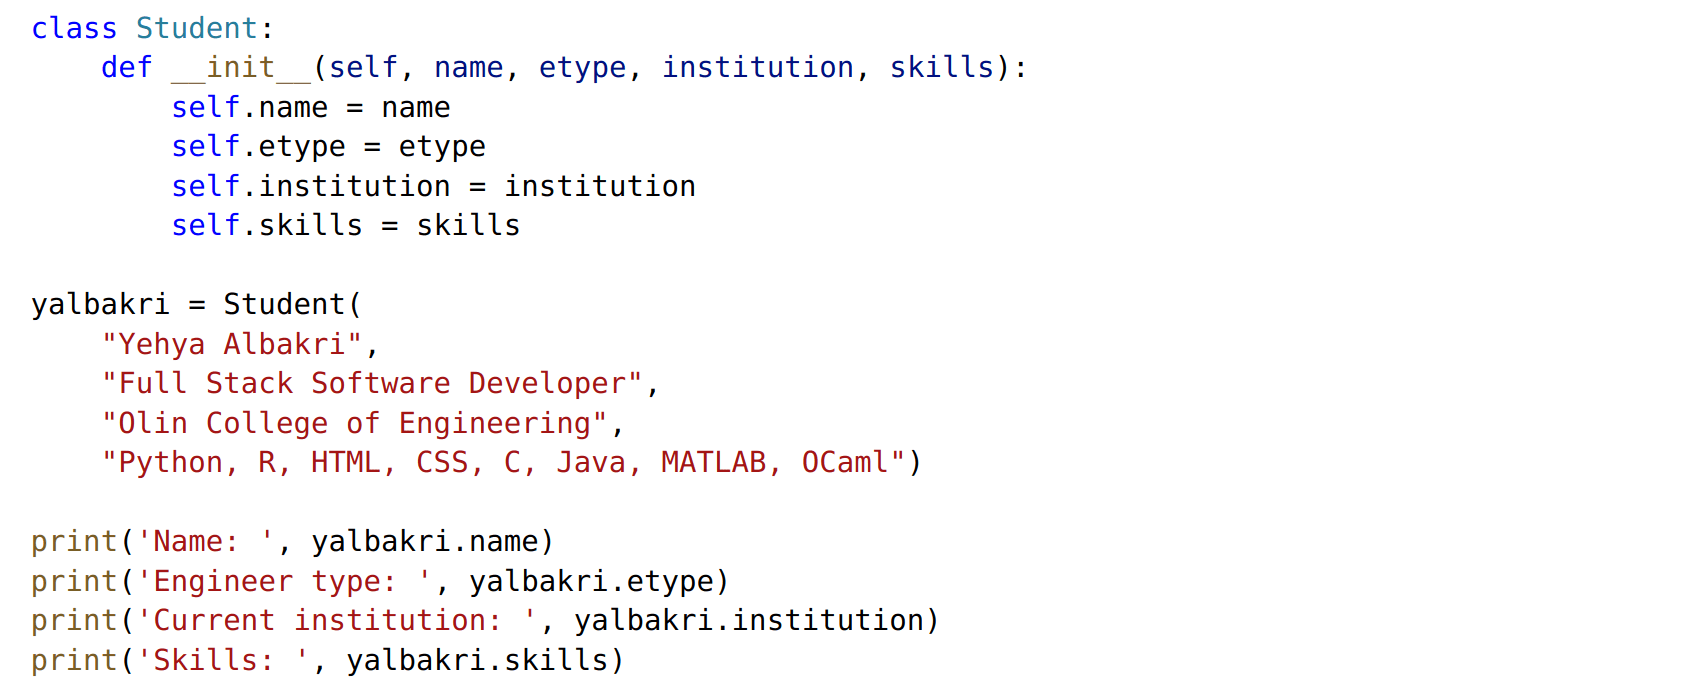
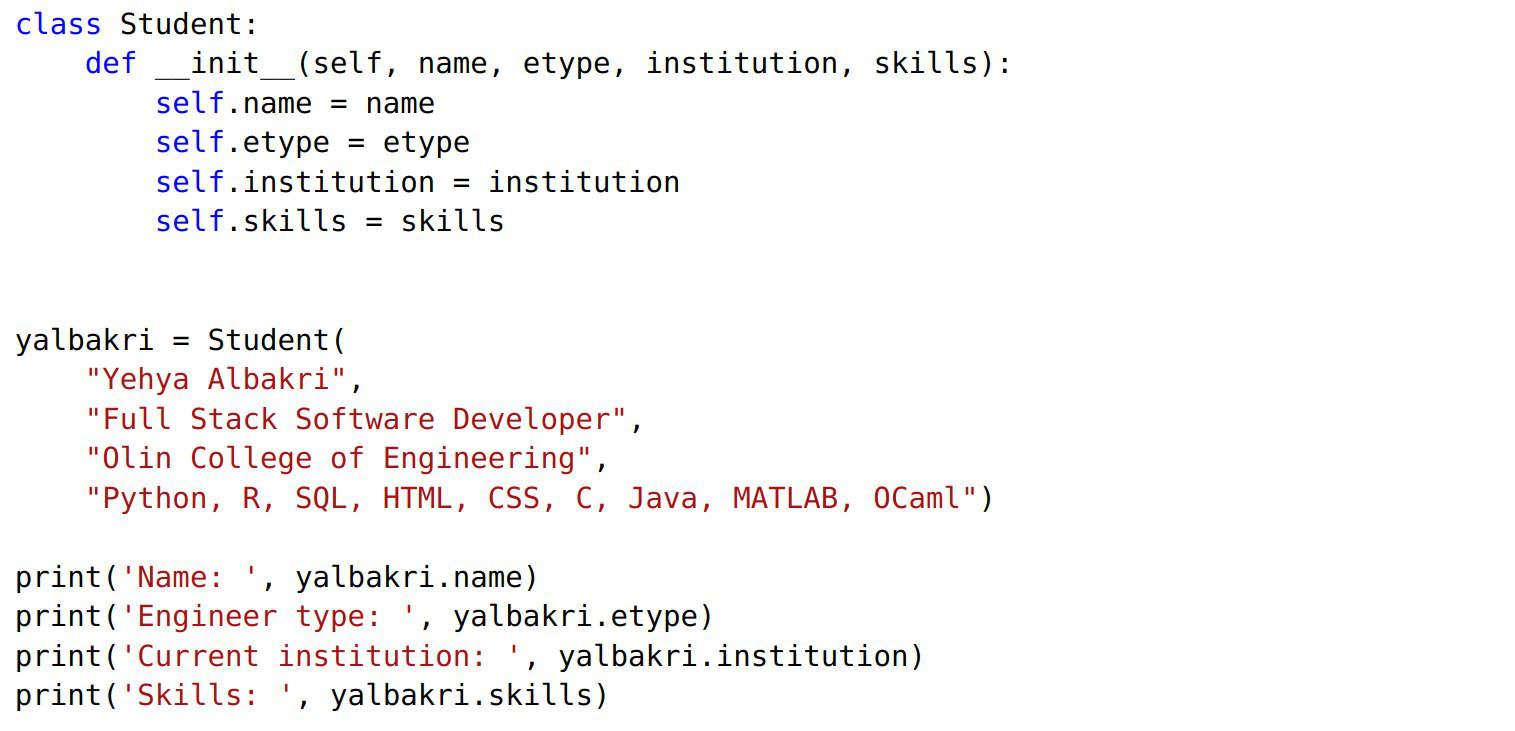
updated code cover-pic

Changed region(s): [[0.0, 0.0, 0.6515, 0.3652], [0.0, 0.4261, 0.6515, 0.7], [0.0, 0.7609, 0.6205, 0.9739]]

diff --git a/index.html b/index.html
@@ -44,7 +44,7 @@
       <div class="main_box">
         <div1><img src="./static/images/processed/ycodea 2.png" alt="" /></div1>
         <div2
-          ><img src="./static/images/processed/ycodeb 2.jpg" alt=""
+          ><img src="./static/images/processed/ycodeb 2.png" alt=""
         /></div2>
         <div3><img src="./static/images/processed/me.jpg" alt="" /></div3>
       </div>

diff --git a/yehya_code.py b/yehya_code.py
@@ -12,9 +12,10 @@ yalbakri = Student(
     "Yehya Albakri",
     "Full Stack Software Developer",
     "Olin College of Engineering",
-    "Python, R, SQL, HTML, CSS, C, Java, MATLAB, OCaml")
+    "Python, R, C, SQL, Hbase, Apache Spark, HTML, CSS, MATLAB, OCaml")
 
 print('Name: ', yalbakri.name)
 print('Engineer type: ', yalbakri.etype)
 print('Current institution: ', yalbakri.institution)
 print('Skills: ', yalbakri.skills)
+
